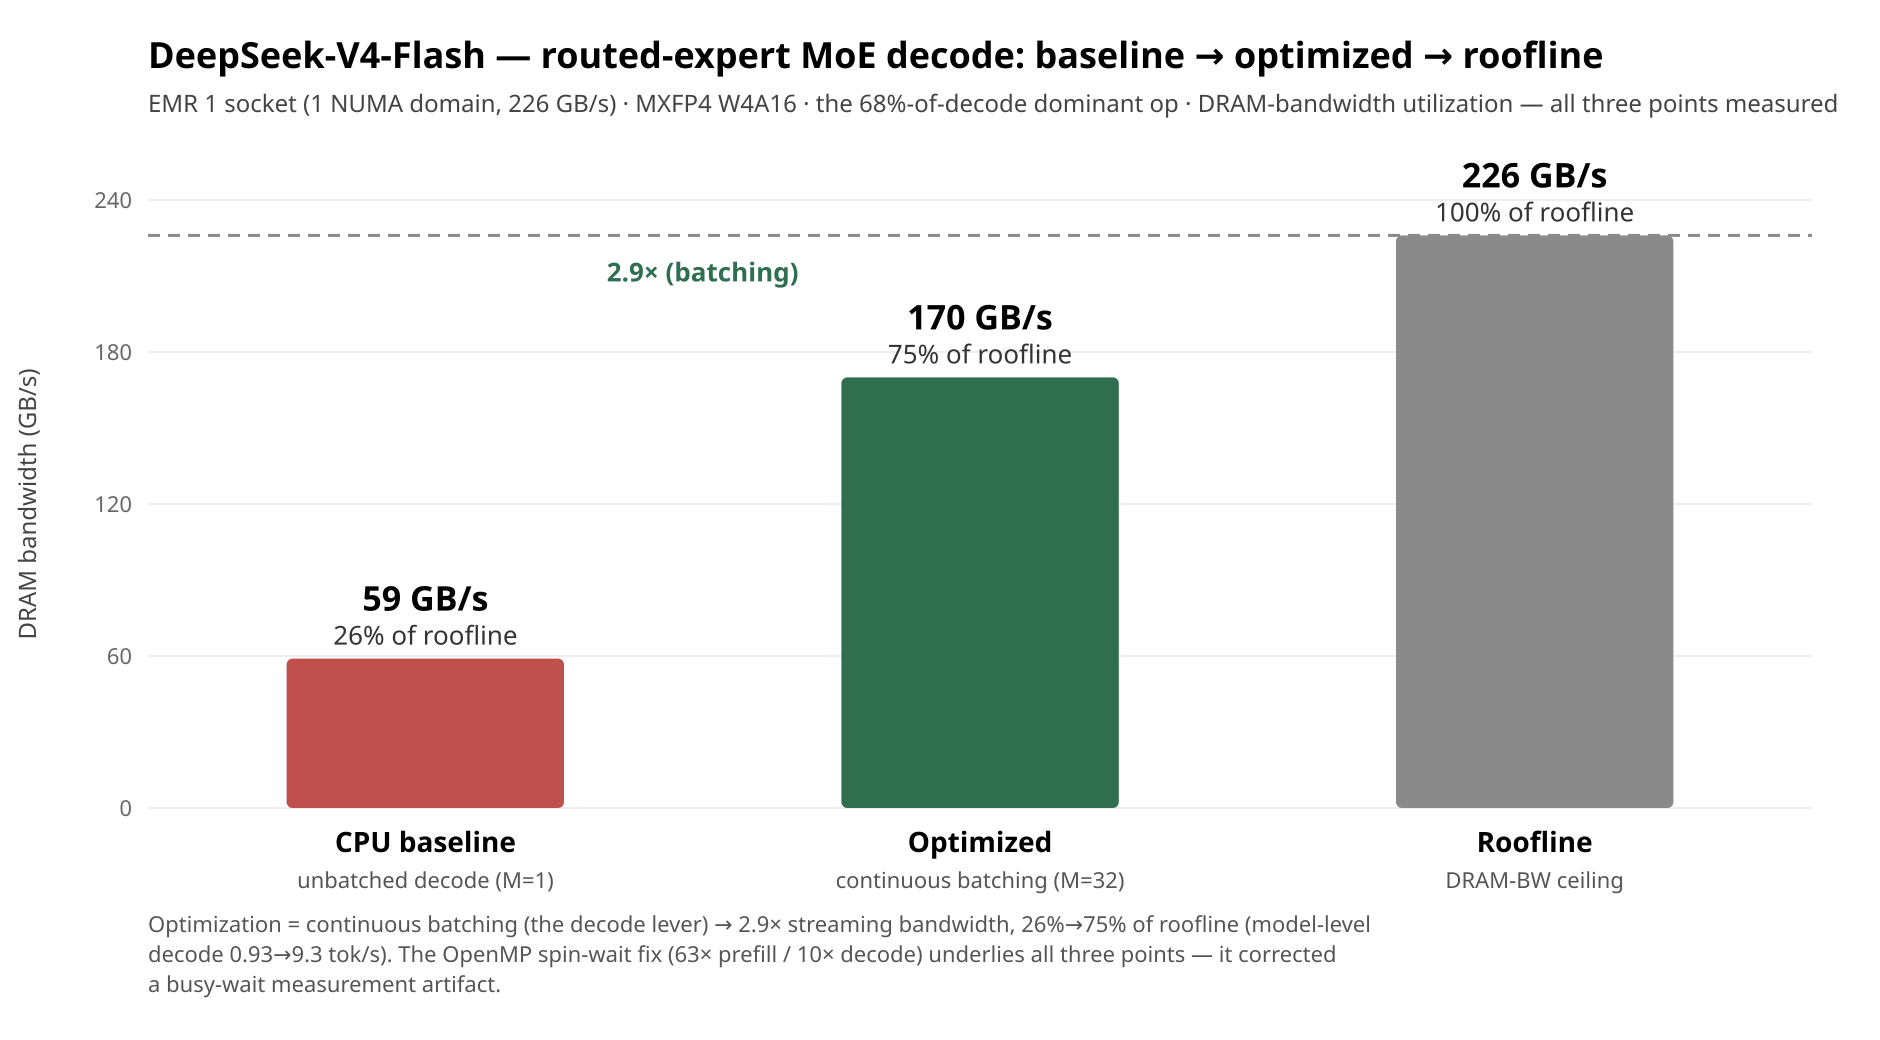
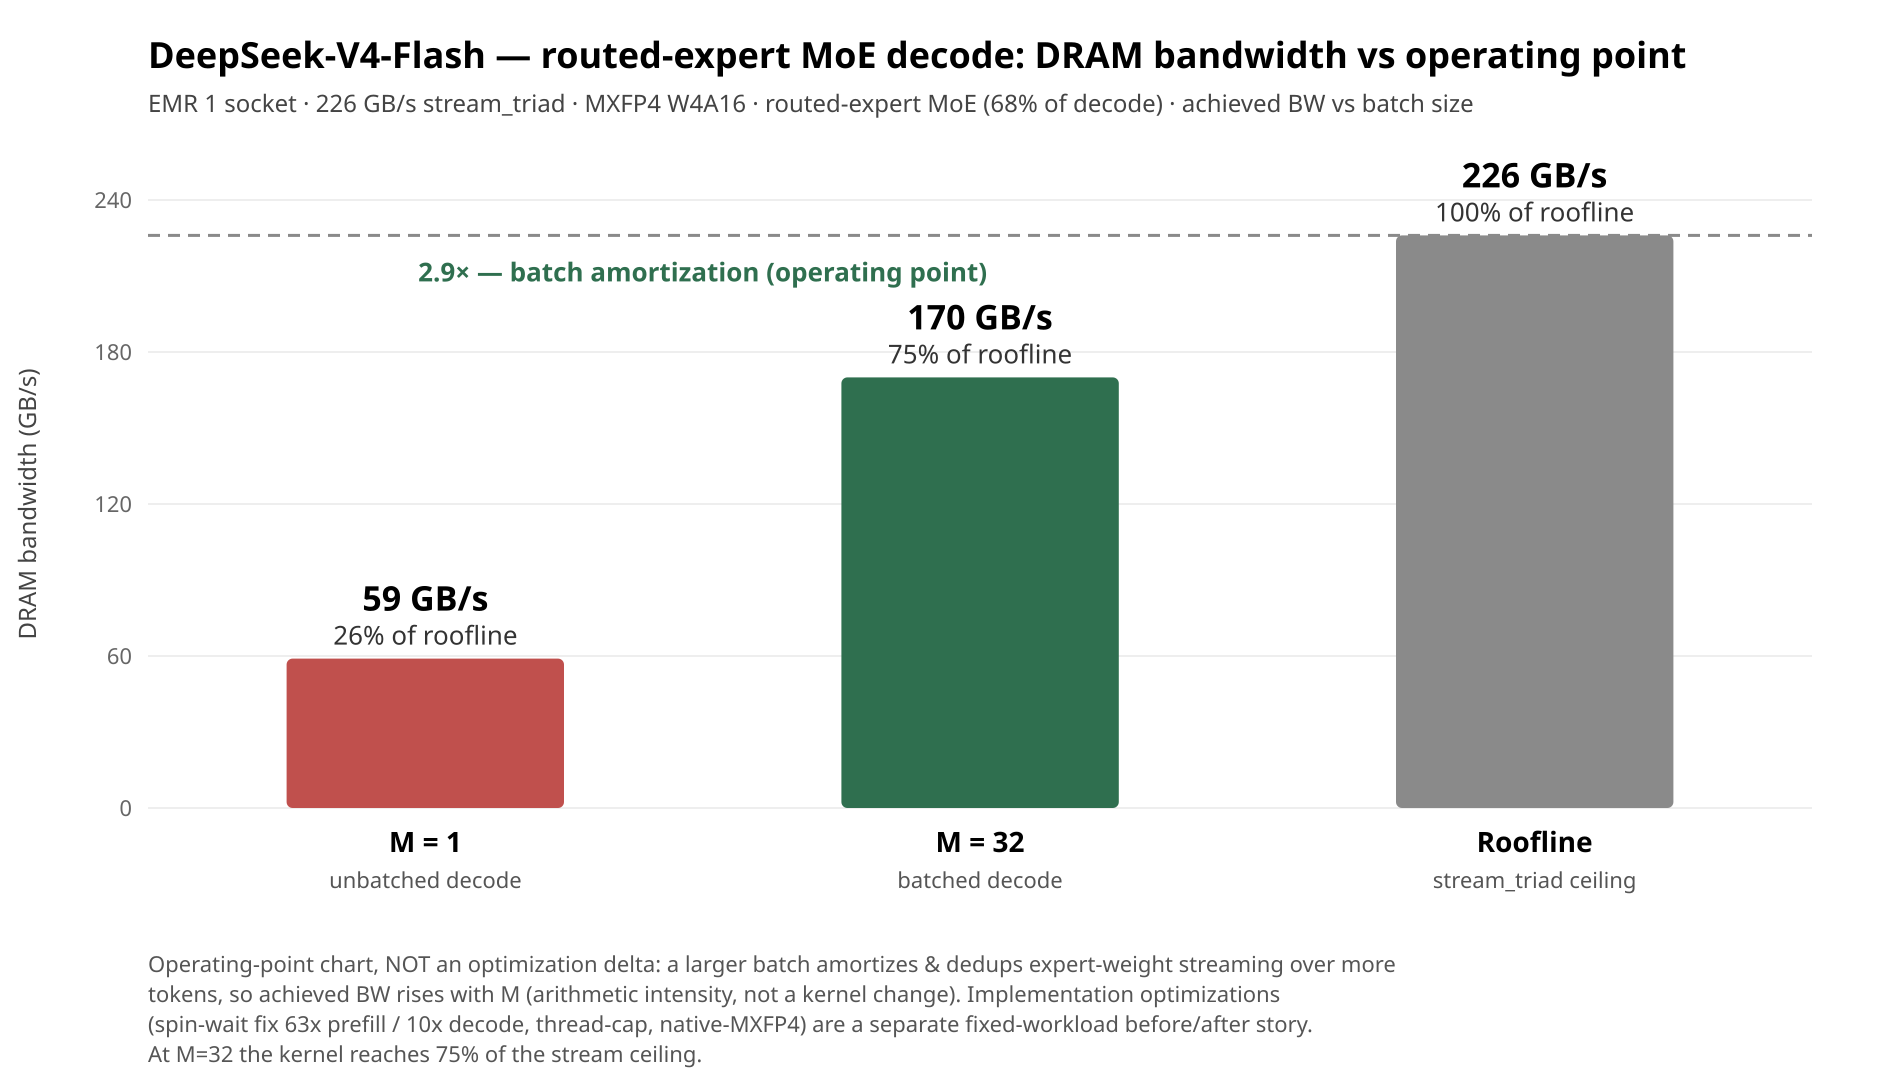
docs(perf): relabel the 3-bar chart as a ROOFLINE OPERATING-POINT chart (DRAM bandwidth vs M), not 'baseline->optimized->roofline'. The M=1->M=32 climb (59->170 GB/s, 26%->75%) is batch amortization — rising arithmetic intensity (more token-reuse of the streamed expert weights), an operating-point m

diff --git a/plugin/validate/perf_journey_chart.py b/plugin/validate/perf_journey_chart.py
@@ -16,23 +16,24 @@ from pathlib import Path
 
 # DeepSeek-V4-Flash — routed-expert MoE (68% of decode), EMR 1 socket, MXFP4 W4A16.
 # Source: plugin/validate/results/deepseek_v4_flash_roofline.json (bench_mxfp4_moe_roofline.py).
-TITLE = "DeepSeek-V4-Flash — routed-expert MoE decode: baseline → optimized → roofline"
-SUBTITLE = ("EMR 1 socket (1 NUMA domain, 226 GB/s) · MXFP4 W4A16 · the 68%-of-decode dominant op · "
-            "DRAM-bandwidth utilization — all three points measured")
+TITLE = "DeepSeek-V4-Flash — routed-expert MoE decode: DRAM bandwidth vs operating point"
+SUBTITLE = ("EMR 1 socket · 226 GB/s stream_triad · MXFP4 W4A16 · routed-expert MoE (68% of decode) · "
+            "achieved BW vs batch size")
 ROOFLINE = 226.0
 BARS = [
-    ("CPU baseline", "unbatched decode (M=1)", 59.0, "#c0504d"),
-    ("Optimized", "continuous batching (M=32)", 170.0, "#2f6f4f"),
-    ("Roofline", "DRAM-BW ceiling", 226.0, "#8a8a8a"),
+    ("M = 1", "unbatched decode", 59.0, "#c0504d"),
+    ("M = 32", "batched decode", 170.0, "#2f6f4f"),
+    ("Roofline", "stream_triad ceiling", 226.0, "#8a8a8a"),
 ]
-FOOTNOTE = ("Optimization = continuous batching (the decode lever) → 2.9× streaming bandwidth, 26%→75% of "
-            "roofline (model-level decode 0.93→9.3 tok/s). The OpenMP spin-wait fix (63× prefill / 10× "
-            "decode) underlies all three points — it corrected a busy-wait measurement artifact.")
+FOOTNOTE = ("Operating-point chart, NOT an optimization delta: a larger batch amortizes & dedups expert-weight "
+            "streaming over more tokens, so achieved BW rises with M (arithmetic intensity, not a kernel change). "
+            "Implementation optimizations (spin-wait fix 63x prefill / 10x decode, thread-cap, native-MXFP4) are a "
+            "separate fixed-workload before/after story. At M=32 the kernel reaches 75% of the stream ceiling.")
 
 
 def build_svg() -> str:
-    W, H = 940, 520
-    padL, padR, padT, padB = 74, 34, 100, 116
+    W, H = 940, 540
+    padL, padR, padT, padB = 74, 34, 100, 136
     plotW, plotH = W - padL - padR, H - padT - padB
     ymax = 240.0  # headroom above the 226 roofline
     y0 = padT + plotH
@@ -79,7 +80,7 @@ def build_svg() -> str:
     x2 = padL + slot * 1.5
     ay = yv(170.0) - 48
     p.append(f"<text x='{(x1+x2)/2:.1f}' y='{ay:.1f}' font-size='13' font-weight='bold' fill='#2f6f4f' "
-             f"text-anchor='middle'>2.9× (batching)</text>")
+             f"text-anchor='middle'>2.9× — batch amortization (operating point)</text>")
     # footnote (wrapped)
     words, line, lines = FOOTNOTE.split(), "", []
     for w in words:

diff --git a/README.md b/README.md
@@ -263,7 +263,7 @@ headroom (an RoI even when no new kernel was written).
 - **Thesis 2 — new-kernel authoring** · DeepSeek-V4-Flash (routed-expert MoE kernel = 68% of decode, MXFP4 W4A16, EMR): [roofline vs measured report](plugin/validate/results/deepseek_v4_flash_roofline.md)
   · ![chart](plugin/validate/results/deepseek_v4_flash_roofline.png) — **measured**: prefill and *batched* decode hit **75% of the DRAM-BW roofline**; unbatched M=1 decode only **26%** → batching is the decode lever. Model-level (tp=1+cap, full 43 layers, batch 32): prefill 69.6 / decode 9.3 tok/s.
   · **Time-attribution pivot** (companion — *where the wall-clock goes*, per phase, summing to 100%): [report](plugin/validate/results/deepseek_v4_flash_pivot.md) · ![pivot](plugin/validate/results/deepseek_v4_flash_pivot.png) — the **MoE expert kernel dominates** (47% prefill / 30% decode), the **authored novel ops (DSA + MHC) are a bounded ~25–30% torch slice** (the optimization frontier), and an explicit **11%/15% unattributed** slice keeps the split honest (batch=1, tp=1).
-  · **Optimization journey** (baseline → optimized → roofline, the dominant routed-expert MoE decode op): ![optimization journey: baseline 59 GB/s to optimized 170 GB/s vs 226 GB/s roofline](plugin/validate/results/deepseek_v4_flash_perf_journey.png) — continuous batching lifts the routed-expert decode from **59 GB/s (26% of roofline, unbatched M=1)** to **170 GB/s (75%, batched M=32)** against the **226 GB/s DRAM ceiling** — a **2.9× measured** bandwidth gain (model-level decode 0.93 → 9.3 tok/s); the OpenMP spin-wait fix (63× prefill / 10× decode) underlies all three points. All three values directly measured.
+  · **DRAM bandwidth vs operating point** (an operating-point chart, *not* an optimization delta): ![routed-expert MoE decode DRAM bandwidth at M=1 59 GB/s vs M=32 170 GB/s vs 226 GB/s stream_triad roofline](plugin/validate/results/deepseek_v4_flash_perf_journey.png) — at **M=1** the routed-expert decode achieves **59 GB/s (26%** of the 226 GB/s `stream_triad` ceiling); at **M=32** batching amortizes/dedups the expert-weight stream to **170 GB/s (75%)**. The M=1→M=32 gain is **batch amortization (rising arithmetic intensity), not a kernel change**; our *implementation* optimizations (spin-wait fix 63× prefill / 10× decode, decode thread-cap, native-MXFP4) are a separate **fixed-workload** before/after story. The 25% still on the table at M=32 is the gap between the MoE weight-stream and a pure triad stream.
 - **DeepSeek-V4-Pro (1.6T) — reuse + scale-out, NOT new-kernel authoring.** Pro is the *same* DSv4
   architecture as Flash (DSA + MHC + MLA + native-MXFP4 MoE), so Flash's authored CPU kernels are its
   **donors** — enabling Pro is Thesis-1-style *wiring + validation*, not new kernels. It is **too large
